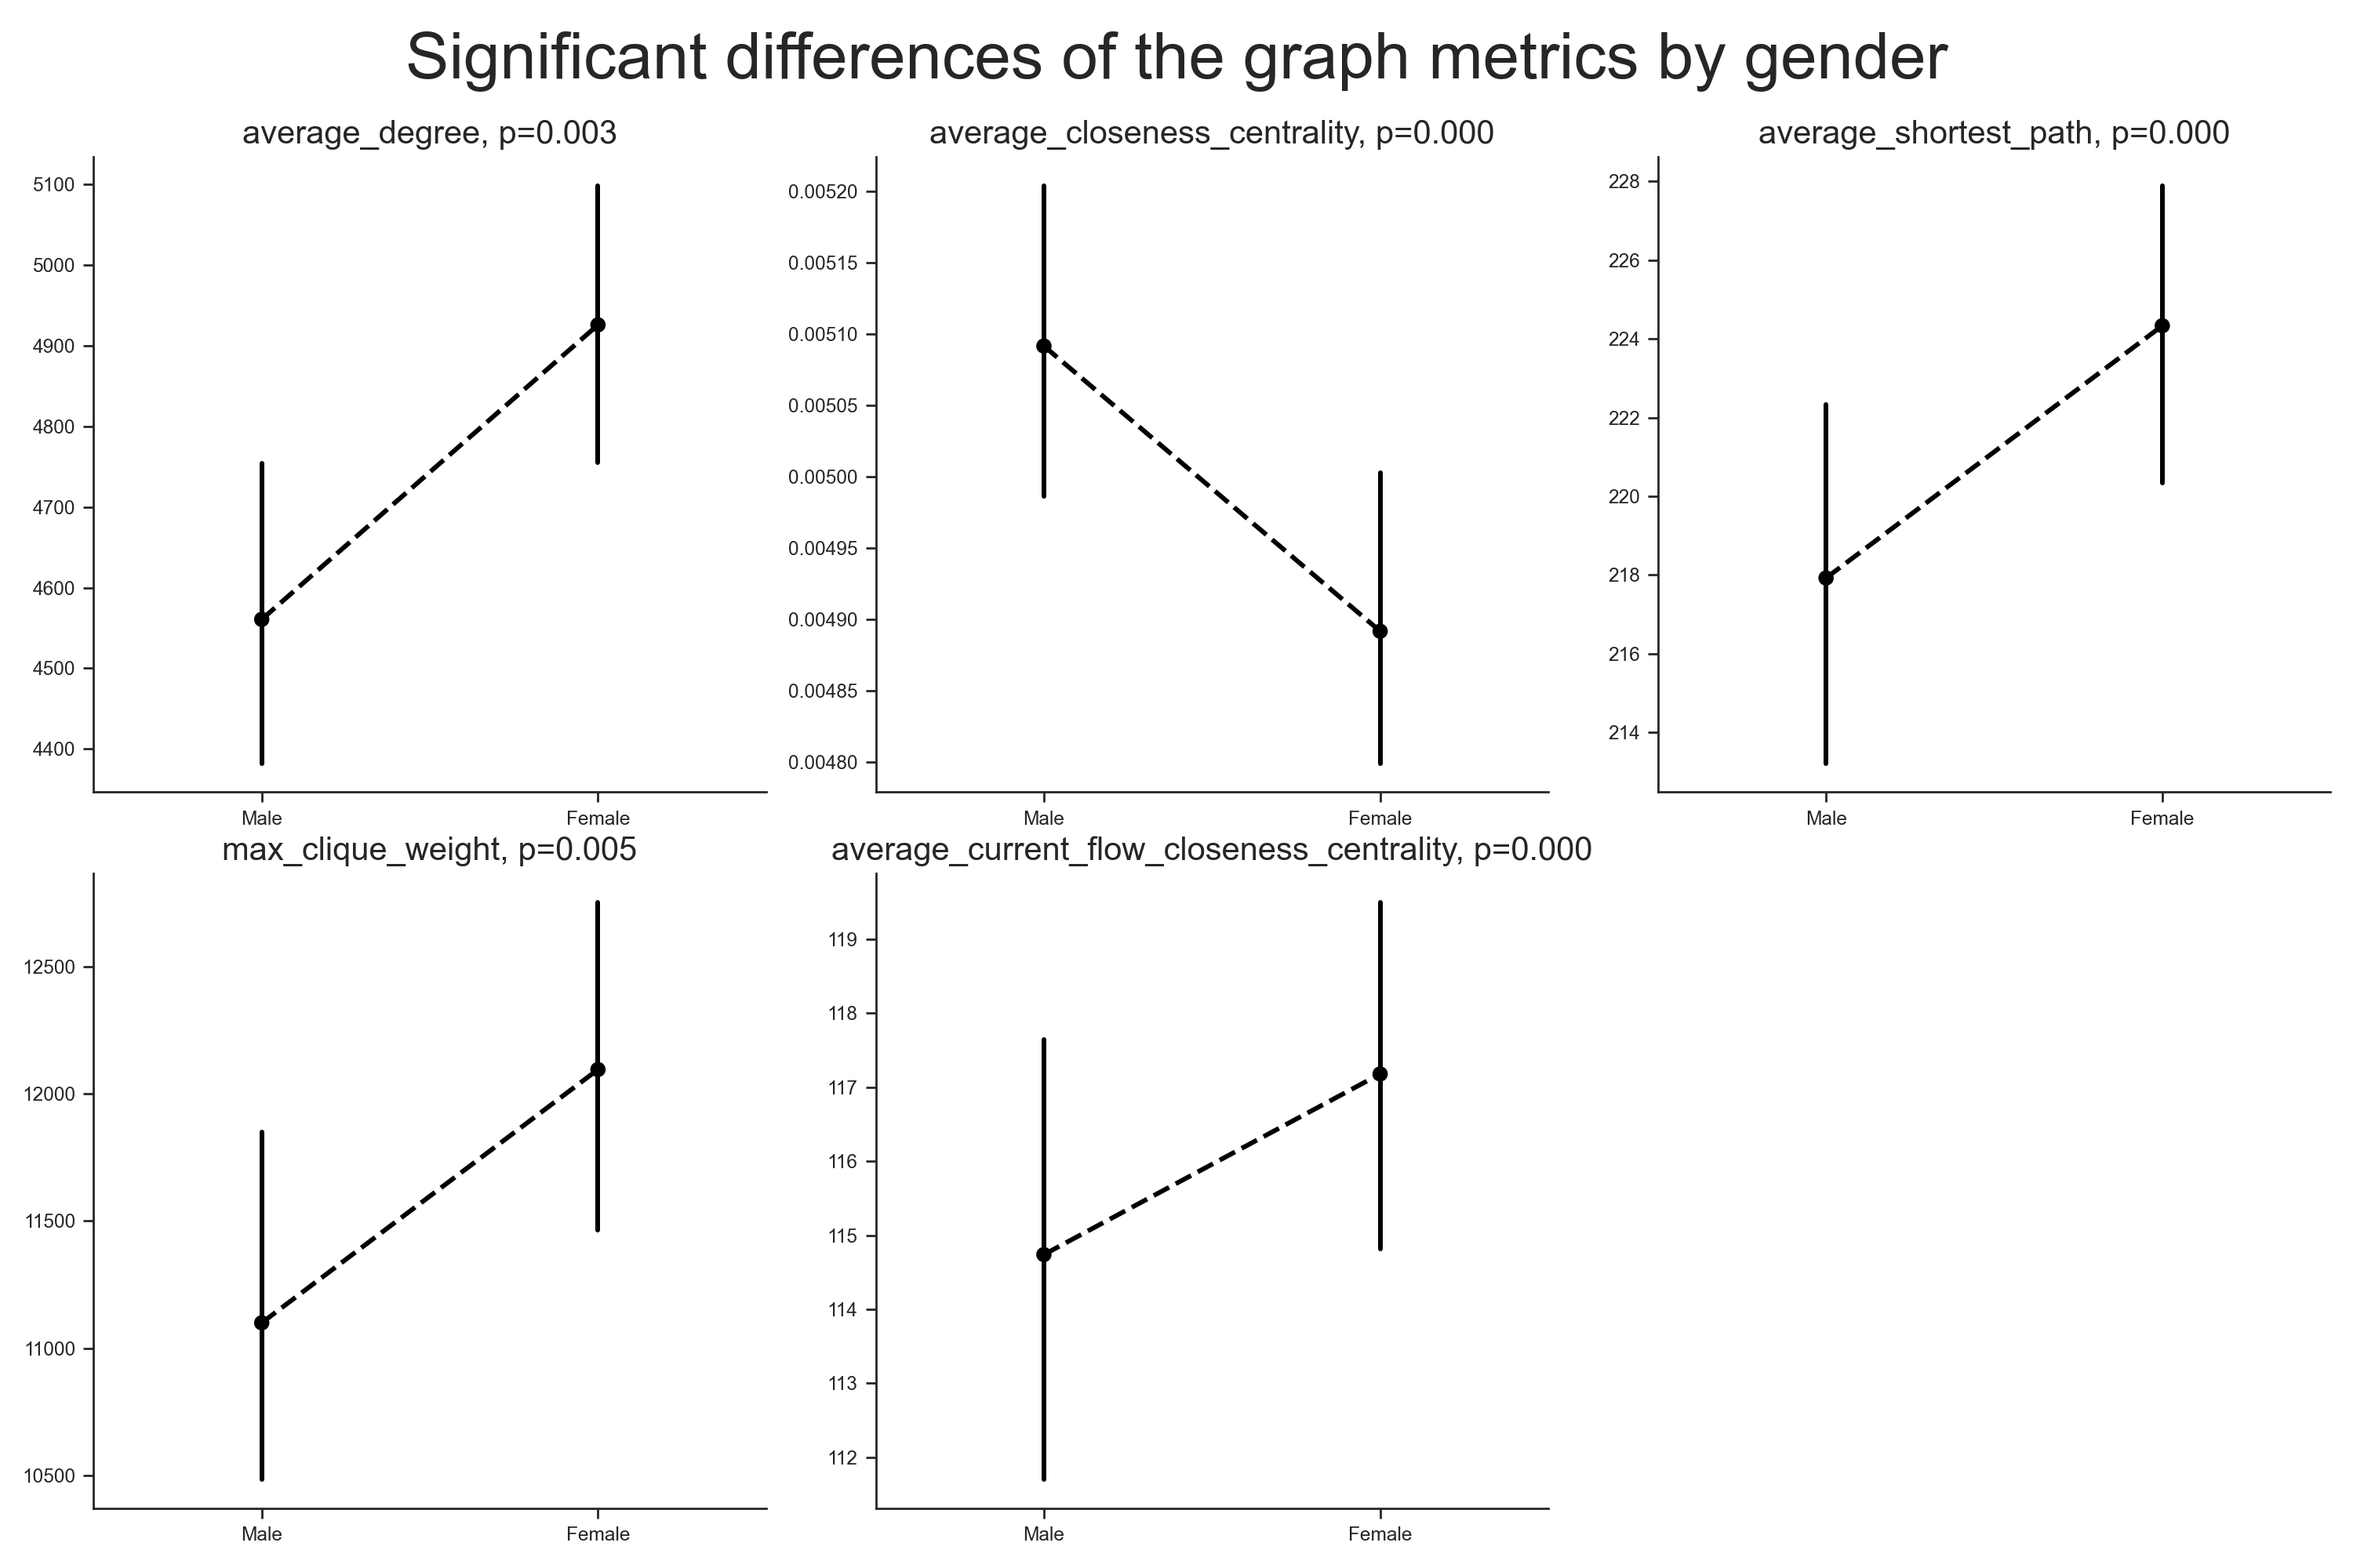
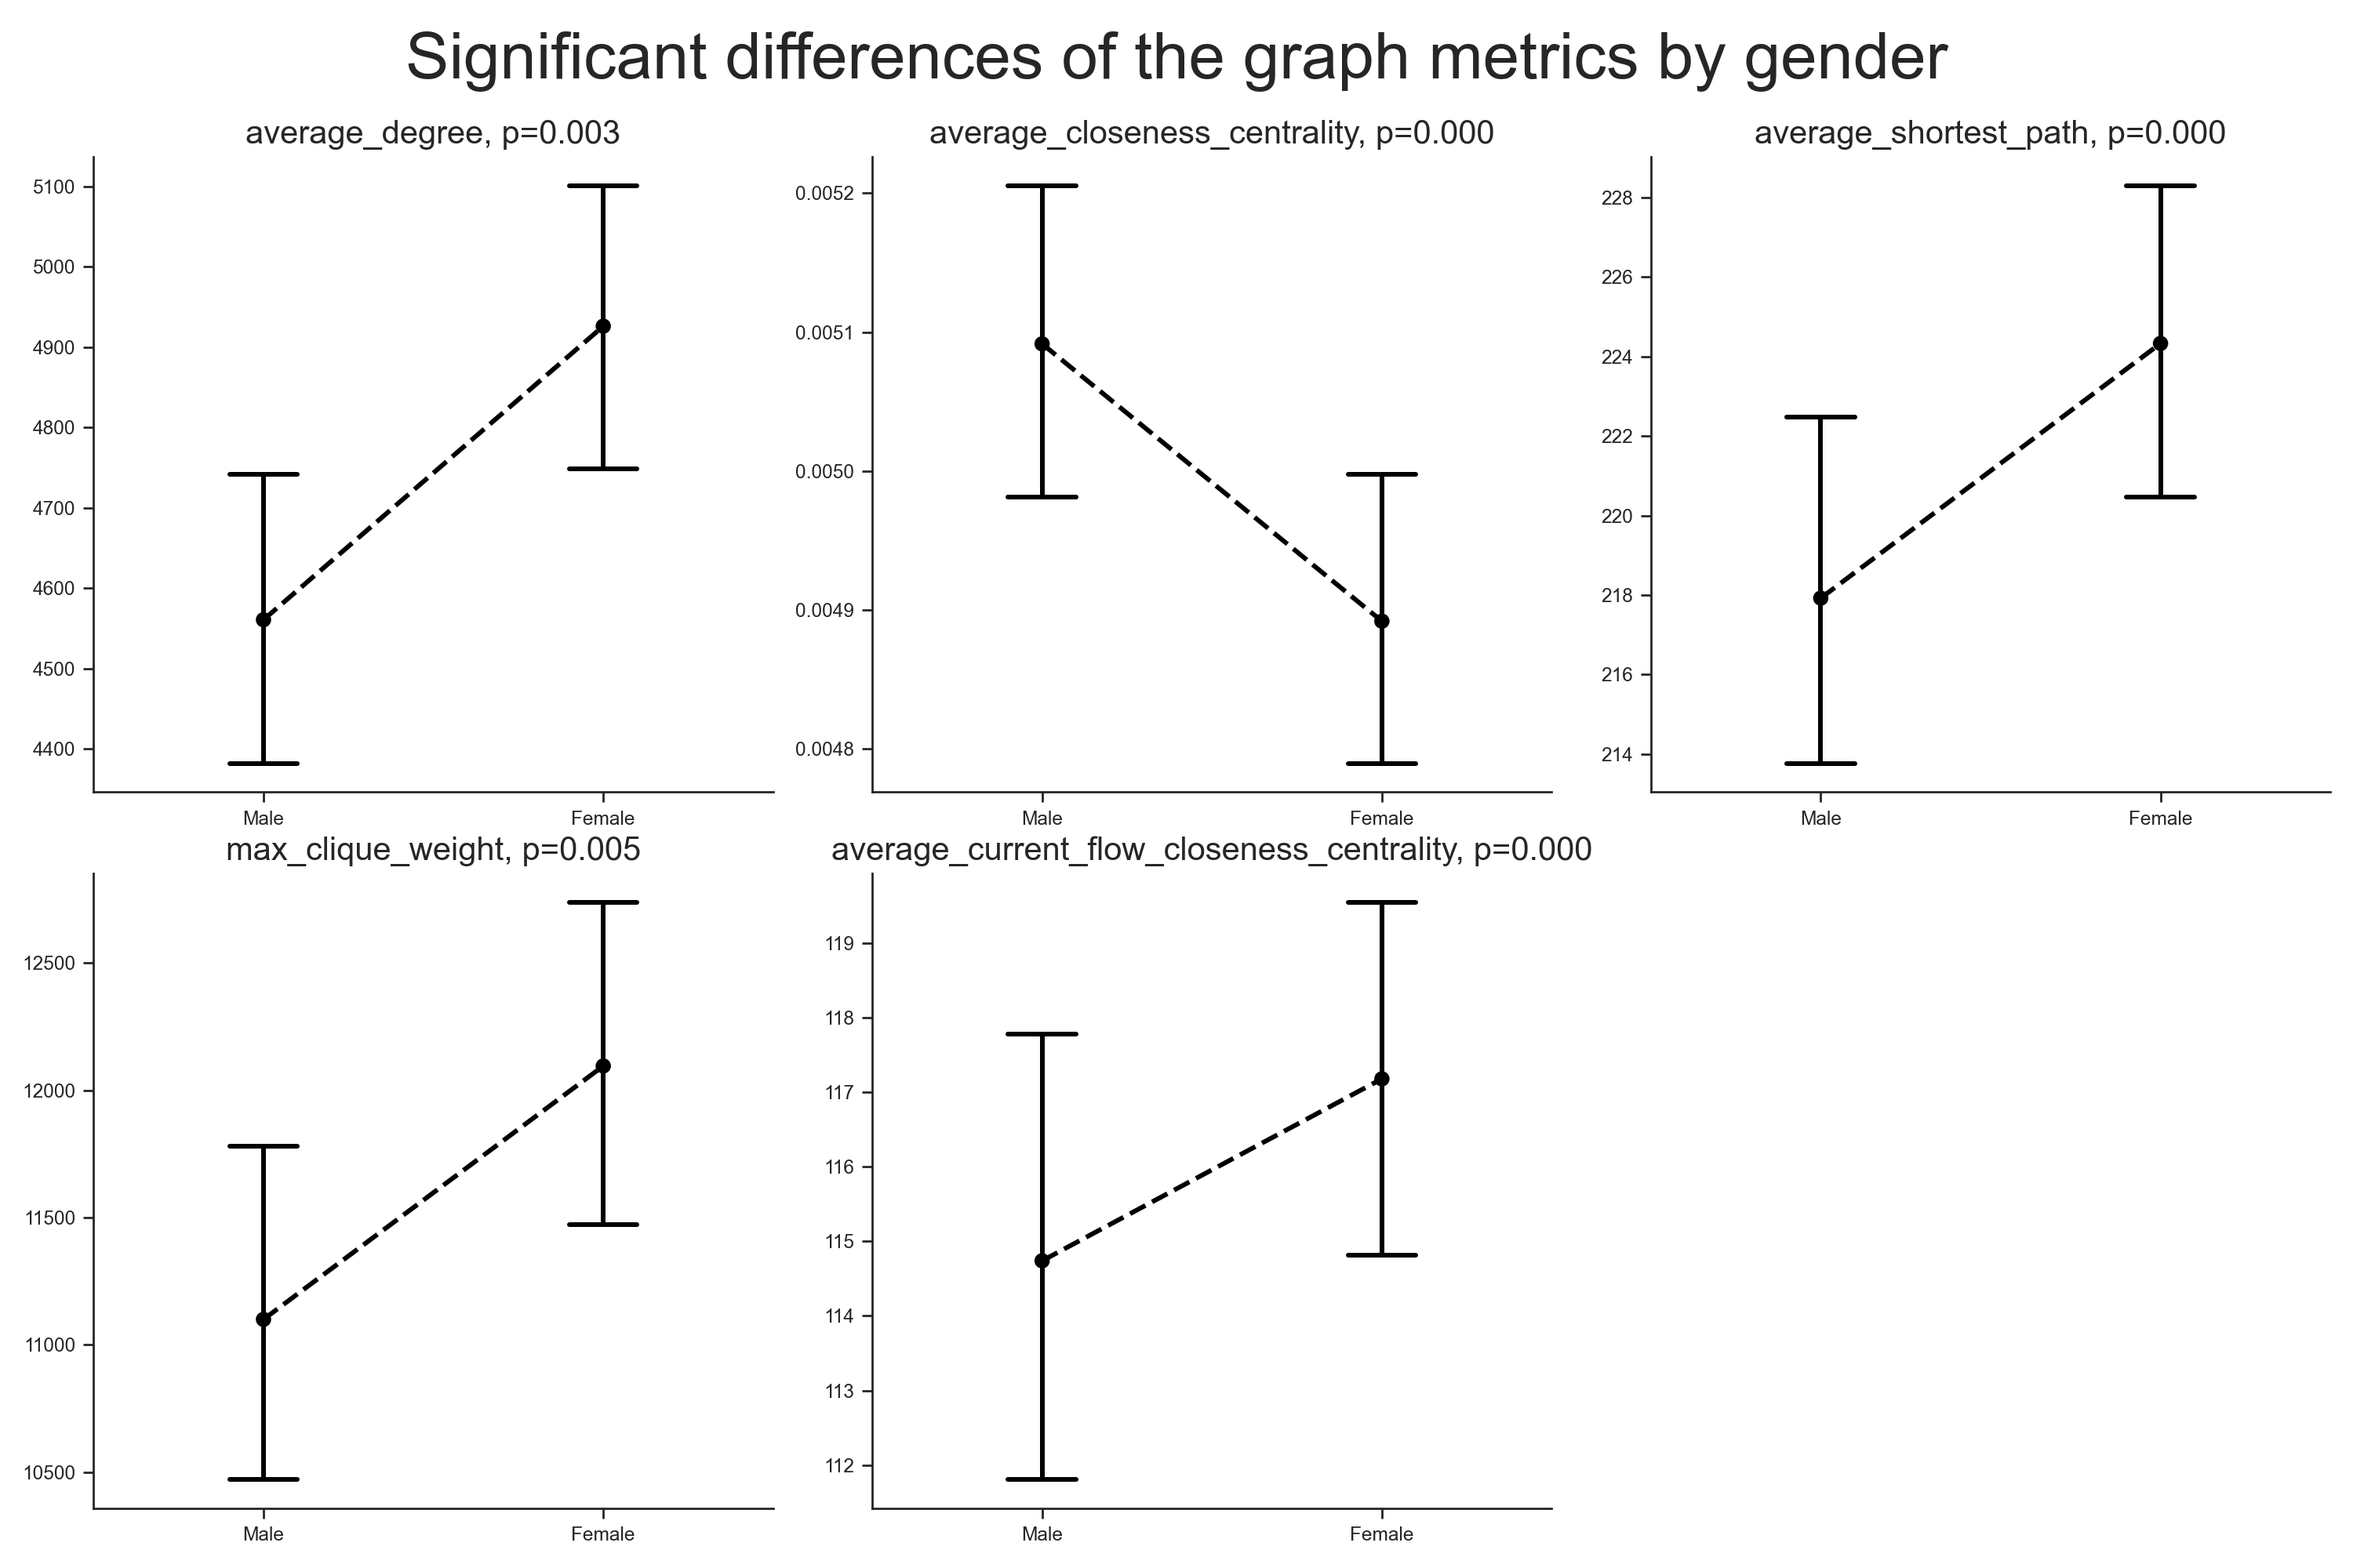
Reformatted plots and do classification.

diff --git a/prediction.py b/prediction.py
@@ -1,0 +1,60 @@
+import pandas as pd
+from scipy.stats import ks_2samp
+from sklearn.svm import SVC
+from sklearn.preprocessing import StandardScaler
+from sklearn.model_selection import cross_val_score
+from sklearn.pipeline import Pipeline
+
+
+def classify_vital_status(data, metrics):
+
+    alive = data[data['vital_status'] == 'alive']
+    dead = data[data['vital_status'] == 'dead']
+
+    significant_statistics = []
+
+    for metric in metrics:
+        _, pvalue = ks_2samp(alive[metric].values, dead[metric].values)
+        if pvalue < 0.01:
+            significant_statistics.append(metric)
+
+    labels = data['vital_status'].map({'alive': 1, 'dead': 0})
+    features = data[significant_statistics].fillna(0)
+
+
+    pipeline = Pipeline([('scaler', StandardScaler()), ('boost', SVC())])
+    vital_status_score = cross_val_score(pipeline, features, labels, cv=10)
+    return vital_status_score.mean()
+
+
+def classify_gender(data, metrics):
+
+    male = data[data['gender'] == 'Male']
+    female = data[data['gender'] == 'Female']
+
+    significant_statistics = []
+
+    for metric in metrics:
+        _, pvalue = ks_2samp(male[metric].values, female[metric].values)
+        if pvalue < 0.01:
+            significant_statistics.append(metric)
+
+    labels = data['gender'].map({'Female': 1, 'Male': 0})
+    features = data[significant_statistics].fillna(0)
+
+    pipeline = Pipeline([('scaler', StandardScaler()), ('svc', SVC())])
+    vital_status_score = cross_val_score(pipeline, features, labels, cv=10)
+    return vital_status_score.mean()
+
+if __name__ == '__main__':
+
+    results = pd.read_csv("metrics_output_additional.csv", index_col="slide_name")
+    metrics = results.columns.to_list()
+    metadata = pd.read_csv("metadata.csv", index_col="SlideID", usecols=["SlideID", "CancerType", "gender",
+                                                                         "tumor_stage", "Diagnosis_Age_Yrs",
+                                                                         "vital_status"])
+
+    results = results.join(metadata)
+
+    print(f'Accuracy vital status {classify_vital_status(results, metrics)}')
+

diff --git a/plot_results.py b/plot_results.py
@@ -28,7 +28,7 @@ def plot_vital_status(data, output_path, statistics):
     plot_data = pd.melt(data, id_vars="vital_status", value_vars=significant_statistics, var_name='metrics')
 
     g = sns.catplot(data=plot_data, x="vital_status", y="value", sharex=False, col="metrics",col_wrap=3,
-                    sharey=False, kind="point", linestyles=["--"], color='black')
+                    sharey=False, kind="point", linestyles=["--"], capsize=.2, color='black')
     for ax, title in zip(g.axes.flat, titles):
         ax.set_title(title, fontsize=15)
     g.set_xlabels("")
@@ -59,7 +59,7 @@ def plot_gender(data, output_path, statistics):
     plot_data = pd.melt(data, id_vars="gender", value_vars=significant_statistics, var_name='metrics')
 
     g = sns.catplot(data=plot_data, x="gender", y="value", sharex=False, col="metrics",col_wrap=3,
-                    sharey=False, kind="point", linestyles=["--"], color='black')
+                    sharey=False, kind="point", linestyles=["--"],capsize=.2, color='black')
     for ax, title in zip(g.axes.flat, titles):
         ax.set_title(title, fontsize=15)
     g.set_xlabels("")
